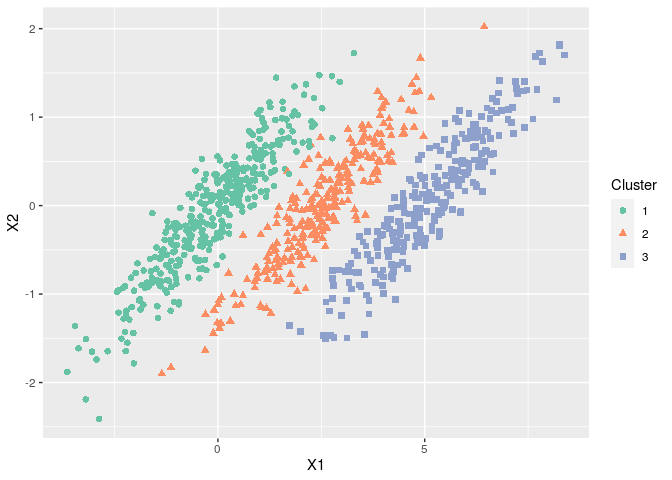
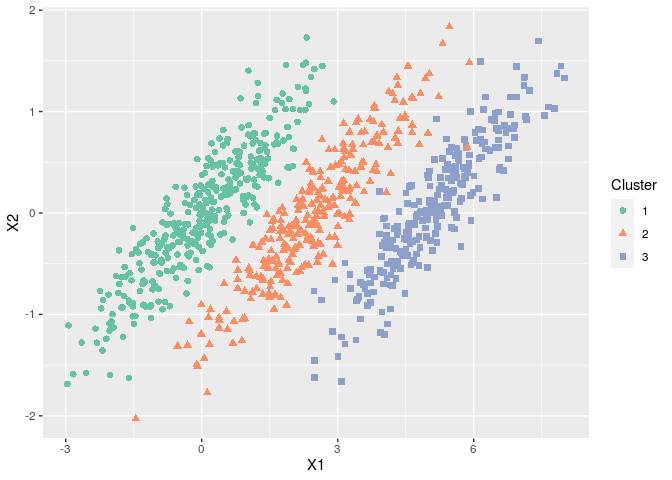
[ci skip] fixed section4.3 args

diff --git a/README.md b/README.md
@@ -82,7 +82,7 @@ simu = simu_bfem(n = 900, which = "section4.2", p = p, noise = noise)
 
 # Section 4.3: 
 snr = 3
-simu = simu_bfem(n=900, which = "section4.2", snr)
+simu = simu_bfem(n=900, which = "section4.3", snr)
 ```
 
 #### The Bayesian Fisher-EM algorithm
@@ -145,9 +145,9 @@ data with the BFEM algorithm.
 res.bfem = bfem(simu$Y, K=3, model = 'DB', nstart = 10, method="gs")
 
 cat('Init ARI : ', aricode::ARI(simu$cls, max.col(res.bfem$Tinit)))
-## Init ARI :  0.4711389
+## Init ARI :  0.4803693
 cat('Final ARI : ', aricode::ARI(simu$cls, res.bfem$cls))
-## Final ARI :  0.9768931
+## Final ARI :  0.9632792
 
 plot(res.bfem, type = "subspace")
 ```
